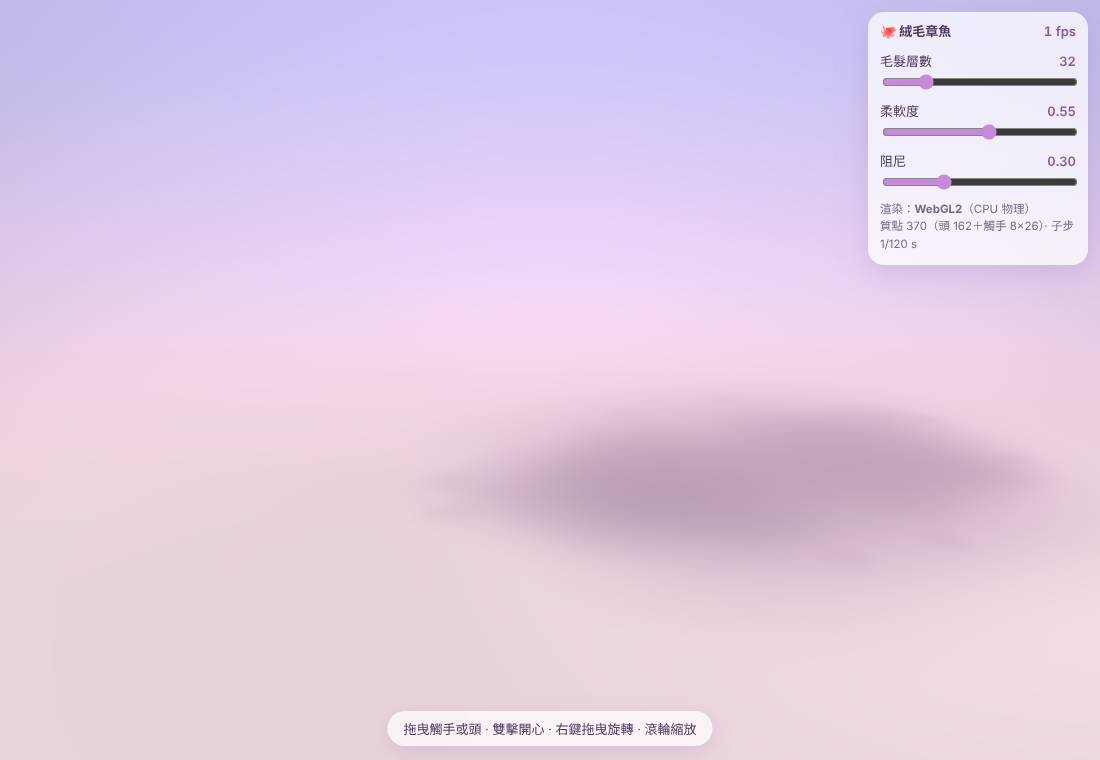
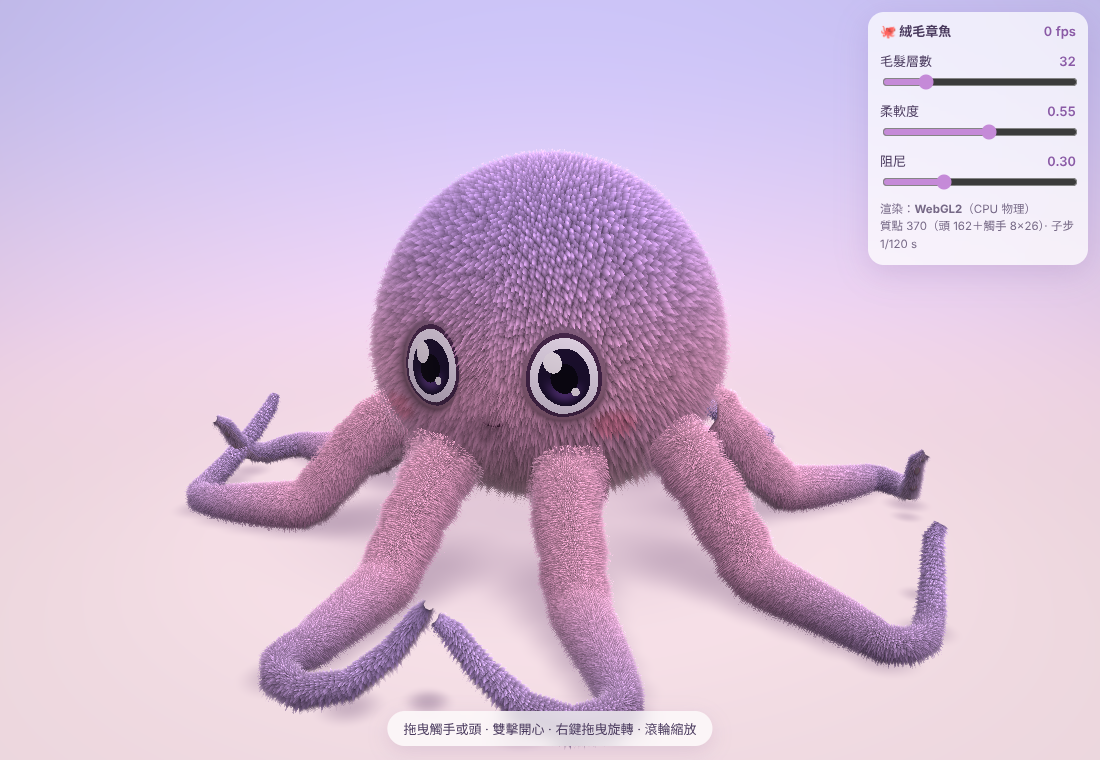
Stabilise octopus physics (stance support, self-righting, taut-rope drag), thicker tentacles, WebGL2 verification shots
Claude-Session: https://claude.ai/code/session_018gakVQpNoXNmG4KN63MRLY

Changed region(s): [[0.1545, 0.1816, 0.9582, 0.9987], [0.3709, 0.9079, 0.4018, 0.9382]]

diff --git a/plush-octopus/index.html b/plush-octopus/index.html
@@ -60,7 +60,7 @@ const v3 = {
   len: a => Math.hypot(a[0], a[1], a[2]), norm: a => { const l = Math.hypot(a[0], a[1], a[2]) || 1; return [a[0] / l, a[1] / l, a[2] / l]; },
 };
 const smooth = (a, b, x) => { const t = Math.min(1, Math.max(0, (x - a) / (b - a))); return t * t * (3 - 2 * t); };
-const radAt = s => 0.16 * Math.pow(1 - s, 0.7) + 0.022;
+const radAt = s => 0.165 * Math.pow(1 - s, 0.55) + 0.03;
 
 function icosphere(sub) {
   const t = (1 + Math.sqrt(5)) / 2;
@@ -115,9 +115,9 @@ for (let t = 0; t < NT; t++) {
     let p;
     if (k === 0) p = A.slice();
     else {
-      const rr = r0 + 1.85 * s - 0.42 * smooth(0.8, 1, s);
-      const ang = a0 + 0.22 * Math.sin(t * 2.3 + 1) * s + 0.35 * smooth(0.75, 1, s) * (t % 2 ? 1 : -1);
-      const y = A[1] + (-Y0 + radAt(s) - A[1]) * smooth(0, 0.42, s) + 0.5 * Math.pow(smooth(0.8, 1, s), 1.5);
+      const rr = r0 + 1.85 * s - 0.2 * smooth(0.8, 1, s);
+      const ang = a0 + 0.22 * Math.sin(t * 2.3 + 1) * s + 0.18 * smooth(0.7, 1, s) * (t % 2 ? 1 : -1);
+      const y = A[1] + (-Y0 + radAt(s) - A[1]) * smooth(0, 0.42, s) + 0.28 * Math.pow(smooth(0.78, 1, s), 1.5);
       p = [Math.cos(ang) * rr, y, Math.sin(ang) * rr];
     }
     const i = NH + t * NN + k;
@@ -319,7 +319,7 @@ struct U { vp: mat4x4f, cam: vec4f, t0: vec4f, t1: vec4f, grab: vec4f, t2: vec4f
 const NH: u32 = ${NH}u; const NP: u32 = ${NP}u; const NN: u32 = ${NN}u; const NTRI: u32 = ${NTRI}u;
 const NF: u32 = ${NF}u; const NV: u32 = ${NV}u; const RING: u32 = ${RING}u;
 const O_NBR: u32 = ${O_NBR}u; const O_VT: u32 = ${O_VT}u; const O_TRI: u32 = ${O_TRI}u; const O_ANC: u32 = ${O_ANC}u; const O_FT: u32 = ${O_FT}u; const O_FN: u32 = ${O_FN}u;
-fn radAt(s: f32) -> f32 { return 0.16 * pow(1.0 - s, 0.7) + 0.022; }
+fn radAt(s: f32) -> f32 { return 0.165 * pow(1.0 - s, 0.55) + 0.03; }
 `;
 const WGSL_SIM = WGSL_COMMON + /* wgsl */`
 const V0: f32 = ${V0.toFixed(6)}; const DEN0: f32 = ${DEN0.toFixed(6)};
@@ -1083,7 +1083,7 @@ const GLSL_COMMON = `#version 300 es
 precision highp float; precision highp int;
 uniform mat4 uVP; uniform vec4 uCam, uT0, uT1, uT2, uT3;
 const int NN = ${NN};
-float radAt(float s) { return 0.16 * pow(1.0 - s, 0.7) + 0.022; }
+float radAt(float s) { return 0.165 * pow(1.0 - s, 0.55) + 0.03; }
 `;
 const GLSL_FRAG_LIB = `
 uniform vec4 uC0;
